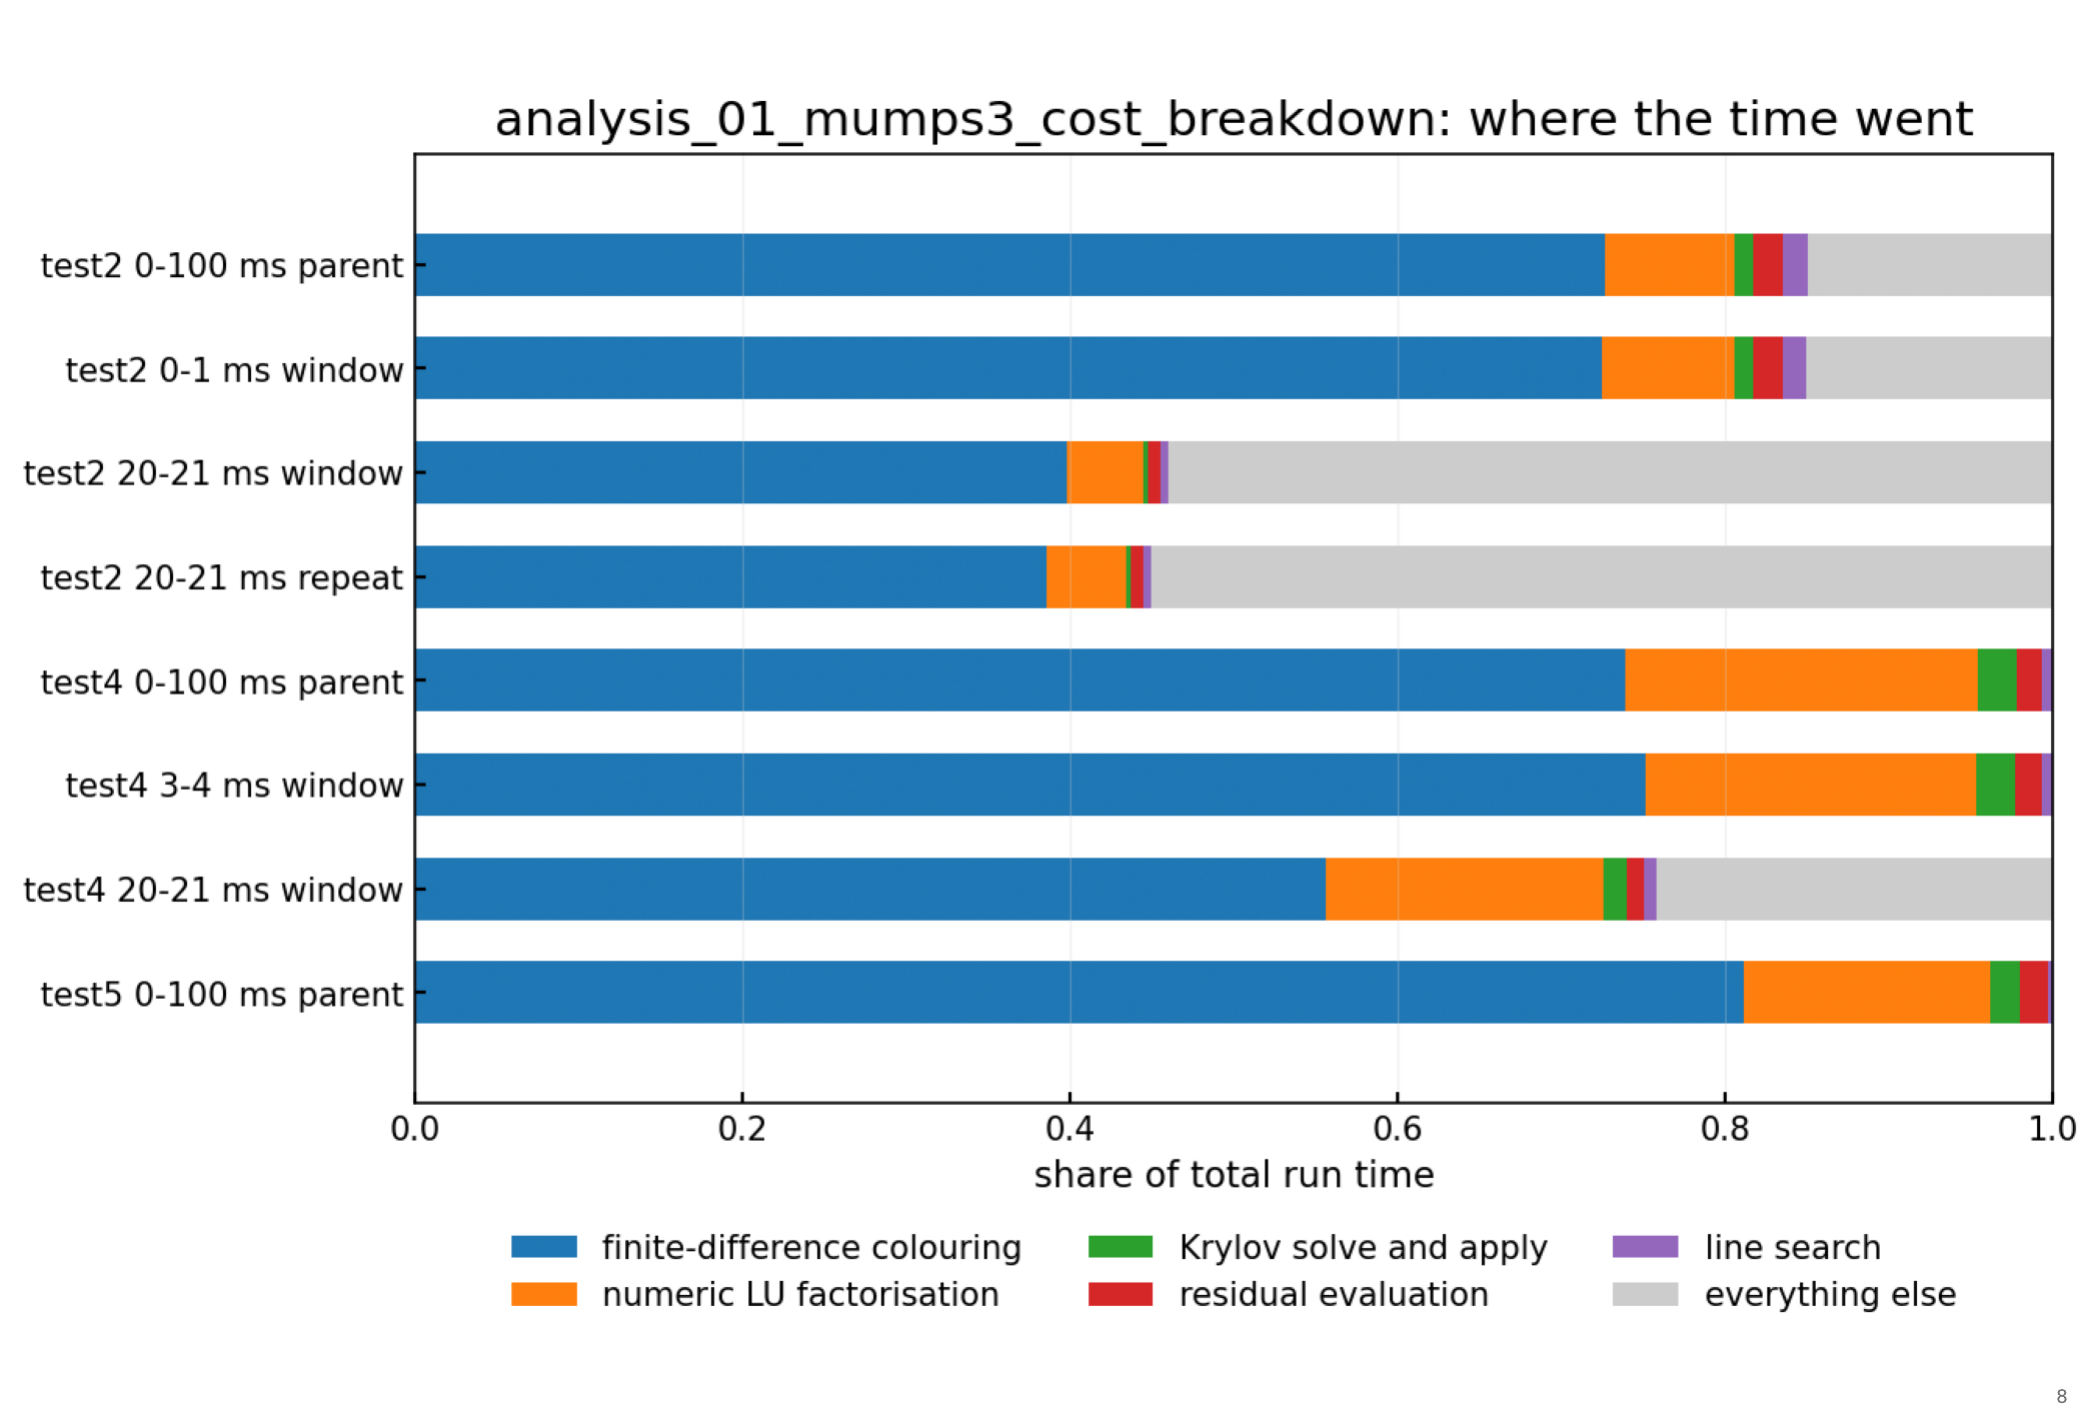
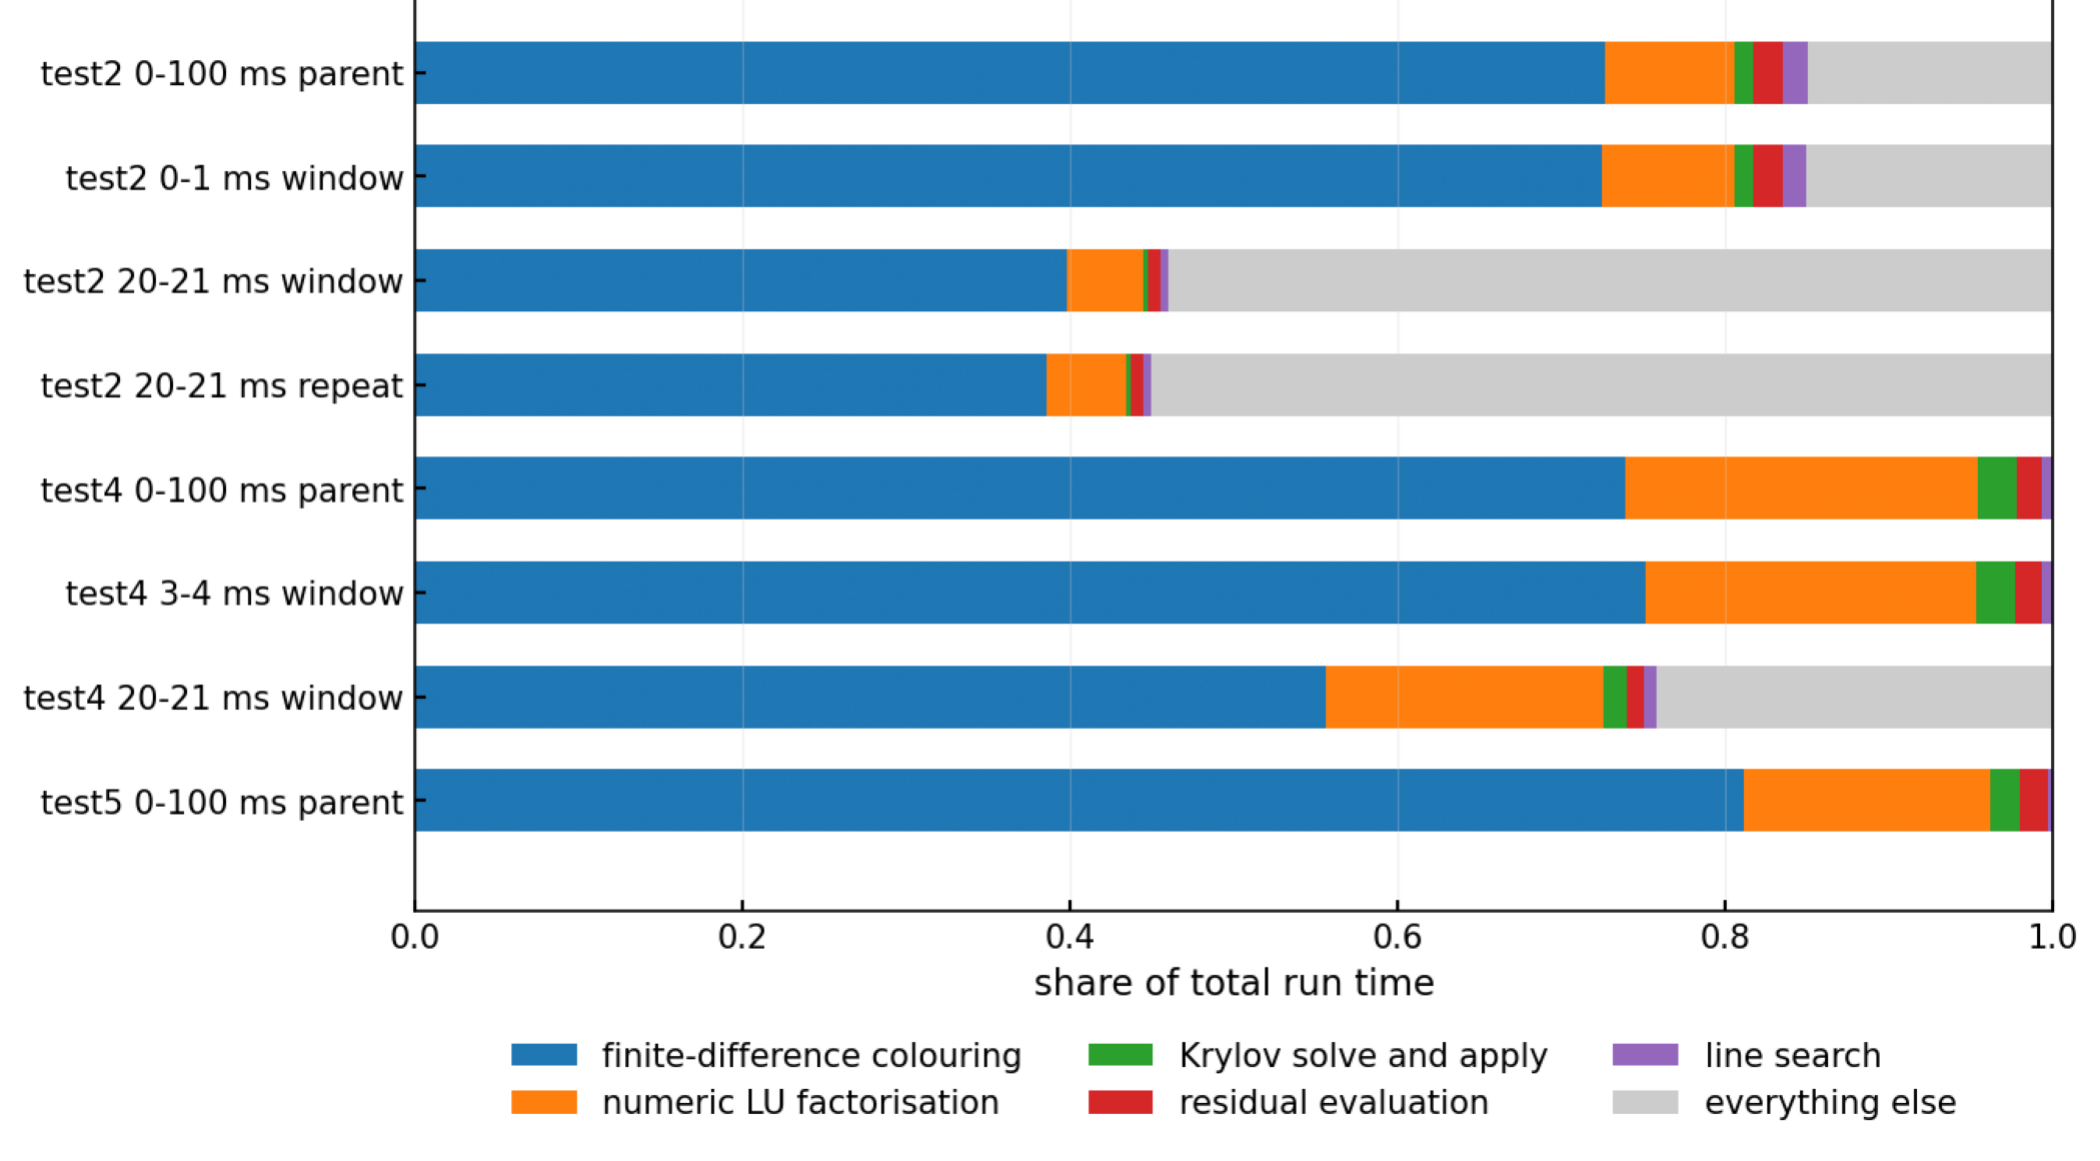
A beamer deck, for saying it out loud
The markdown summary is 3000 words, which is right for someone reading it
alone and wrong for talking to somebody. This is the same argument in 14
slides: short lines, one claim each, the figure early.

The figure is re-cropped to drop the report generator's own title, which
duplicated the slide title and read as internal.

The built PDF is gitignored along with the LaTeX artefacts. It is generated
output and it lands in the data directory with the other reports.

diff --git a/design-summary-slides.tex b/design-summary-slides.tex
@@ -1,0 +1,314 @@
+% Hermes-3 solver optimisation: a short deck for an external audience.
+% Built with: xelatex design-summary-slides.tex
+% The figure comes from the project's own report generator.
+
+\documentclass[aspectratio=169,11pt]{beamer}
+
+\usetheme{default}
+\usecolortheme{seahorse}
+\setbeamertemplate{navigation symbols}{}
+\setbeamertemplate{footline}[frame number]
+\setbeamerfont{frametitle}{size=\large}
+\setbeamercolor{frametitle}{fg=black}
+\setbeamertemplate{itemize items}[circle]
+\setlength{\parskip}{4pt}
+
+\usepackage{fontspec}
+\usepackage{graphicx}
+\usepackage{booktabs}
+
+\title{Optimising the Hermes-3 solver}
+\subtitle{Searching PETSc settings for tokamak edge simulations}
+\date{20 September 2026}
+
+\begin{document}
+
+\begin{frame}
+  \titlepage
+\end{frame}
+
+\begin{frame}{The problem}
+  Hermes-3 simulates the plasma edge of a tokamak: how a reactor's exhaust
+  cools before it reaches the wall.
+
+  \begin{itemize}
+    \item Stiff equations, so the solve is implicit. PETSc SNES, every timestep.
+    \item Nearly all the cost sits inside that solver.
+  \end{itemize}
+
+  \vspace{0.4em}
+  Measured on our own cases:
+
+  \begin{itemize}
+    \item 100\,ms of plasma took \textbf{16.6 hours} on ten cores.
+    \item That is about 145\,ms of plasma per day of wall clock.
+    \item Steady state: days to weeks. A study needs tens of cases.
+  \end{itemize}
+
+  \vspace{0.4em}
+  The solver's speed decides which physics questions are askable at all.
+\end{frame}
+
+\begin{frame}{Fifty settings, chosen by hand}
+  \begin{itemize}
+    \item Tolerances, Jacobian reuse, linear solver, preconditioner, timestep control.
+    \item Picked from intuition, by a handful of people, over years.
+    \item Nobody has searched the space.
+  \end{itemize}
+
+  \vspace{0.6em}
+  Our records: four configurations across 48 runs.
+  Throughput spans a \textbf{factor of three} on one test case.
+
+  \vspace{0.6em}
+  A two-fold speed-up turns a week of waiting into three days --- on every
+  study that follows, for every user of the code.
+\end{frame}
+
+\begin{frame}{Where the time actually goes}
+  \begin{center}
+    \includegraphics[width=0.70\textwidth]{design-summary-cost-breakdown.png}
+  \end{center}
+
+  \vspace{-0.2em}
+  \begin{center}
+    Jacobian colouring \textbf{73--81\%} \quad$\cdot$\quad LU 5--22\%
+    \quad$\cdot$\quad Krylov under 3\%
+  \end{center}
+
+  {\small The exact LU converges in one iteration, so the Krylov layer is
+  nearly all overhead.}
+\end{frame}
+
+\begin{frame}{The search space}
+  Six groups, about fifty knobs:
+
+  \begin{columns}[T]
+    \begin{column}{0.48\textwidth}
+      \begin{itemize}
+        \item Nonlinear solve
+        \item Jacobian
+        \item Variable scaling
+      \end{itemize}
+    \end{column}
+    \begin{column}{0.48\textwidth}
+      \begin{itemize}
+        \item Linear solve
+        \item Preconditioner
+        \item Timestep control
+      \end{itemize}
+    \end{column}
+  \end{columns}
+
+  \vspace{0.6em}
+  Mixed types: switches, choices, integers, continuous over decades.
+
+  \vspace{0.4em}
+  \textbf{And conditional.} The factorisation package means nothing unless the
+  preconditioner is a direct solve. The PID gains mean nothing unless the
+  controller is the PID one.
+
+  \vspace{0.4em}
+  A sampler that ignores that structure spends its budget on settings that are
+  not in force.
+\end{frame}
+
+\begin{frame}{Defaults are not choices}
+  We captured what PETSc \emph{actually built}, not what the input file says.
+
+  \vspace{0.6em}
+  \begin{center}
+    \large
+    GMRES restart $= 30$ \qquad against \qquad iteration cap $= 260$
+  \end{center}
+
+  \vspace{0.4em}
+  So one solve can restart nearly nine times, discarding its convergence
+  history each time.
+
+  \vspace{0.6em}
+  Nobody chose 30. It is PETSc's default and the input file never mentions it.
+
+  \vspace{0.6em}
+  Building the space description from the running code, rather than from the
+  input file, surfaces these immediately.
+\end{frame}
+
+\begin{frame}{Making an evaluation cheap}
+  We do not evaluate a configuration on a whole simulation. We evaluate it on a
+  slice.
+
+  \begin{itemize}
+    \item One \textbf{parent run} per test case: 0--100\,ms, fixed build, saves state every ms.
+    \item Cut \textbf{seeds} from it: restart files at chosen times.
+    \item A \textbf{window} restarts from a seed and runs to a later time.
+  \end{itemize}
+
+  \vspace{0.4em}
+  \begin{center}
+    \begin{tabular}{llr}
+      \toprule
+      Rung & Windows & Noise bound \\
+      \midrule
+      0 & three, 0.2--0.5\,ms & 15\% \\
+      1 & the same three, $4\times$ longer & 10\% \\
+      2 & the full 100\,ms run & 5\% \\
+      \bottomrule
+    \end{tabular}
+  \end{center}
+
+  \vspace{0.4em}
+  Positions probe the flat-start transient, the approach to steady state, and
+  near-steady state.
+\end{frame}
+
+\begin{frame}{Why we do not trust windows by rank}
+  A configuration can be slow early and fast late. No single window predicts the
+  full run.
+
+  \vspace{0.6em}
+  So instead of rank correlation:
+
+  \begin{itemize}
+    \item Each window measures a \emph{speed} at its position in the run.
+    \item Full-run cost = sum of each stretch at its local speed.
+    \item A real full run checks the estimate periodically.
+    \item Promote generously --- cheap rungs cannot see a slow divergence.
+  \end{itemize}
+
+  \vspace{0.8em}
+  \textbf{We have not found this published.} Restart windows of one simulation
+  as fidelity levels appears to be novel. We would like the argument attacked.
+\end{frame}
+
+\begin{frame}{Fast for the wrong reason}
+  A configuration can be fast because it takes sloppy steps and converges to the
+  wrong plasma. Timing never reveals that.
+
+  \vspace{0.6em}
+  Correctness is a \textbf{pass/fail flag beside the cost}, never a term inside
+  the objective.
+
+  \begin{itemize}
+    \item Window check, every rung: sanity band on four physical quantities.
+          Failing disqualifies. Passing proves little.
+    \item Endpoint check, full runs only: same steady state as the reference?
+          This is the verdict that counts.
+  \end{itemize}
+
+  \vspace{0.6em}
+  Outcomes are a fixed, script-decidable taxonomy. A crash never scores as slow.
+  A timeout is evidence, not a missing result.
+\end{frame}
+
+\begin{frame}{The record}
+  One row per run, about fifty columns, append-only, in git. Per-run evidence
+  sits beside it, outside git.
+
+  \vspace{0.6em}
+  Three rules:
+
+  \begin{itemize}
+    \item \textbf{The index defines what exists.} No enumerating directories.
+    \item \textbf{Nothing is typed twice.} Intent before the run, measurement
+          after. An undeclared difference gets flagged.
+    \item \textbf{Nobody reads fifty columns.} Queries return about ten,
+          filtered and ranked --- counting across a wide table is exactly where
+          both people and models fail.
+  \end{itemize}
+\end{frame}
+
+\begin{frame}{Two layers, one narrow interface}
+  \begin{columns}[T]
+    \begin{column}{0.48\textwidth}
+      \textbf{Runner}
+      \begin{itemize}
+        \item Plain command-line program.
+        \item No judgement in it.
+        \item Prepares, launches, watches, extracts, repeats.
+        \item Runs unattended.
+      \end{itemize}
+    \end{column}
+    \begin{column}{0.48\textwidth}
+      \textbf{Optimiser}
+      \begin{itemize}
+        \item Decides what to try next.
+        \item Model, sampler, or a person with a list.
+        \item The runner cannot tell which.
+      \end{itemize}
+    \end{column}
+  \end{columns}
+
+  \vspace{0.8em}
+  \begin{center}
+    Interface: \emph{suggest trials} $\rightarrow$ \emph{report results}
+  \end{center}
+
+  \vspace{0.4em}
+  Swapping the optimiser changes nothing else.
+\end{frame}
+
+\begin{frame}{What the evidence says about model optimisers}
+  Reviewed September 2026. Genuinely mixed:
+
+  \begin{itemize}
+    \item Value is in \emph{proposing} when data are sparse, not in predicting.
+          As a predictor a model loses to standard surrogates.
+    \item Budget-matched study, June 2026: the advantage was mostly a sensible
+          starting configuration. Seeded random search tied at five evaluations,
+          won by twelve.
+    \item Eleven-simulator benchmark, March 2026: 66--81\% success, but
+          1.5--2.7$\times$ the compute of plain scanning.
+    \item They stagnate rather than converge. A fallback is not optional.
+  \end{itemize}
+
+  \vspace{0.5em}
+  Our reading: best as a \textbf{cold-start proposer} and a \textbf{reader of
+  failures}, not as the search algorithm.
+
+  \vspace{0.3em}
+  So: run controls, show at most $\sim$30 past trials, validate output against a
+  schema before launching, fall back to the sampler on drift.
+\end{frame}
+
+\begin{frame}{Open questions}
+  \begin{enumerate}
+    \item \textbf{Is the window ladder sound?} Unpublished, and the obvious
+          objection is that a short window does not predict a long run. We answer
+          with speed-summation rather than rank correlation. Attack it.
+    \item \textbf{How to map a mixed, conditional space?} Fifty knobs, four
+          types, dependencies switching whole groups on and off. No principled
+          answer yet.
+    \item \textbf{Right objective for steady state?} Work to reach a residual
+          level, not to reach a fixed simulated time --- especially for
+          pseudo-transient methods. Unreconciled with the window ladder.
+    \item \textbf{Are the cheap rungs too cheap?} Shortest windows cost 9 and
+          20 seconds. Almost certainly below the noise floor.
+  \end{enumerate}
+\end{frame}
+
+\begin{frame}{Status}
+  \textbf{Works today}
+  \begin{itemize}
+    \item Measurement layer: log and dump $\rightarrow$ row and bundle, verified against a live run.
+    \item Record: nine runs on a fixed build, documented schema, re-derivation check.
+    \item Parent runs for three test cases; seed library for two.
+    \item Window generator.
+  \end{itemize}
+
+  \vspace{0.5em}
+  \textbf{Designed, not built}
+  \begin{itemize}
+    \item The runner loop, the campaign config, and any optimiser at all.
+  \end{itemize}
+
+  \vspace{0.5em}
+  \textbf{Caveat we are honest about}
+
+  The variable rescaling floors small elements at the solver's relative
+  tolerance. We measured it: the floor is reached in 14 of 16 runs. Until we
+  know what share of the residual norm those elements carry, residual-based
+  objectives are not safe to tune against.
+\end{frame}
+
+\end{document}
